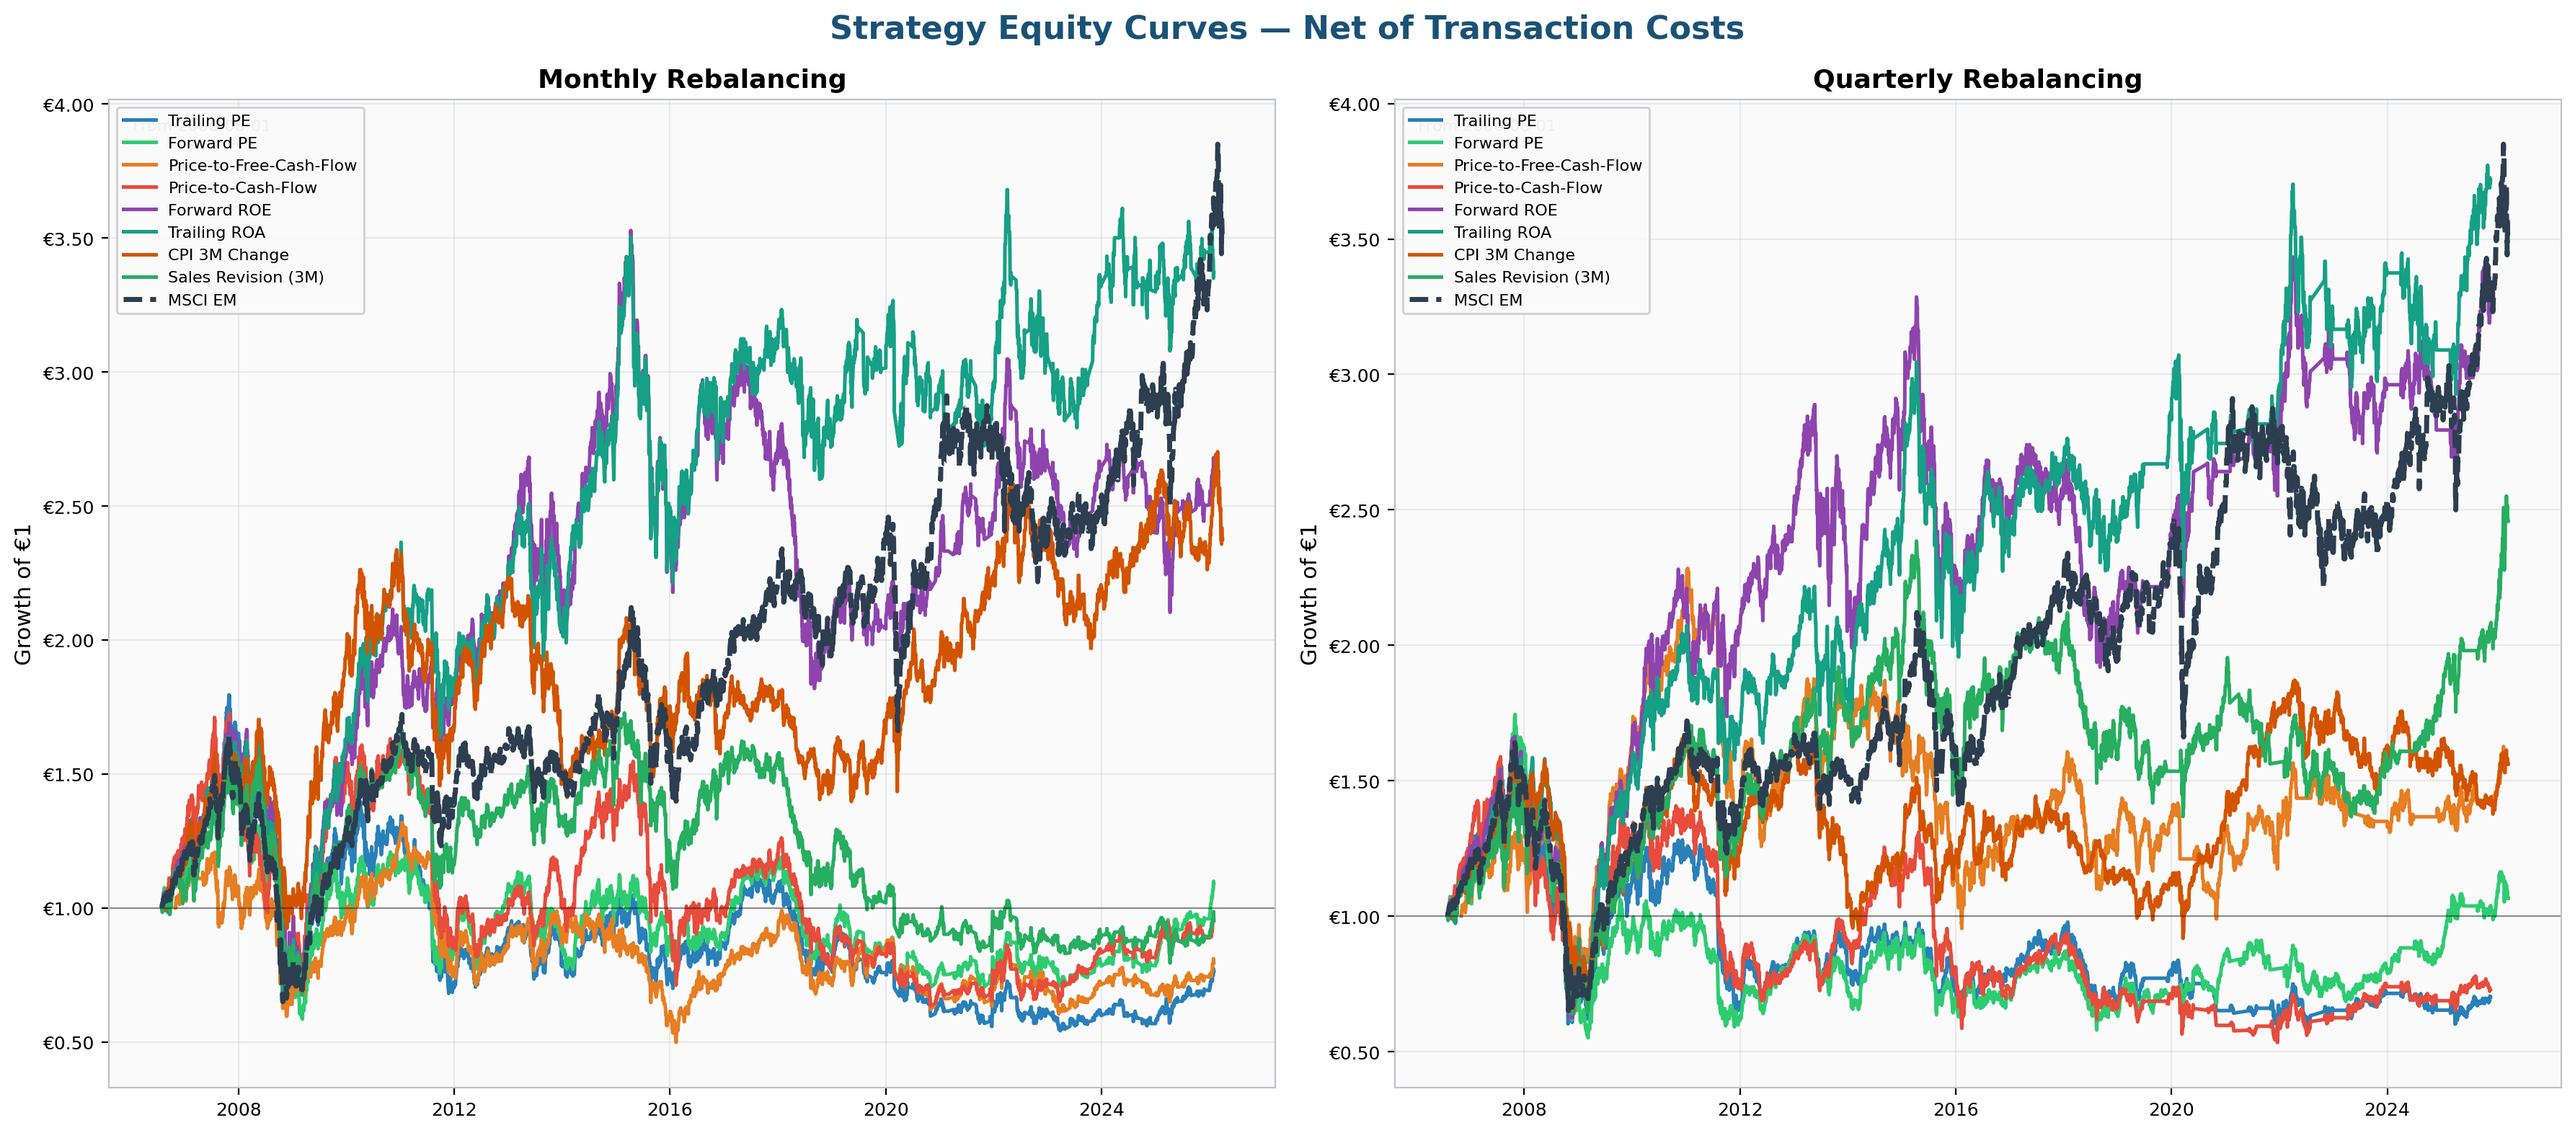
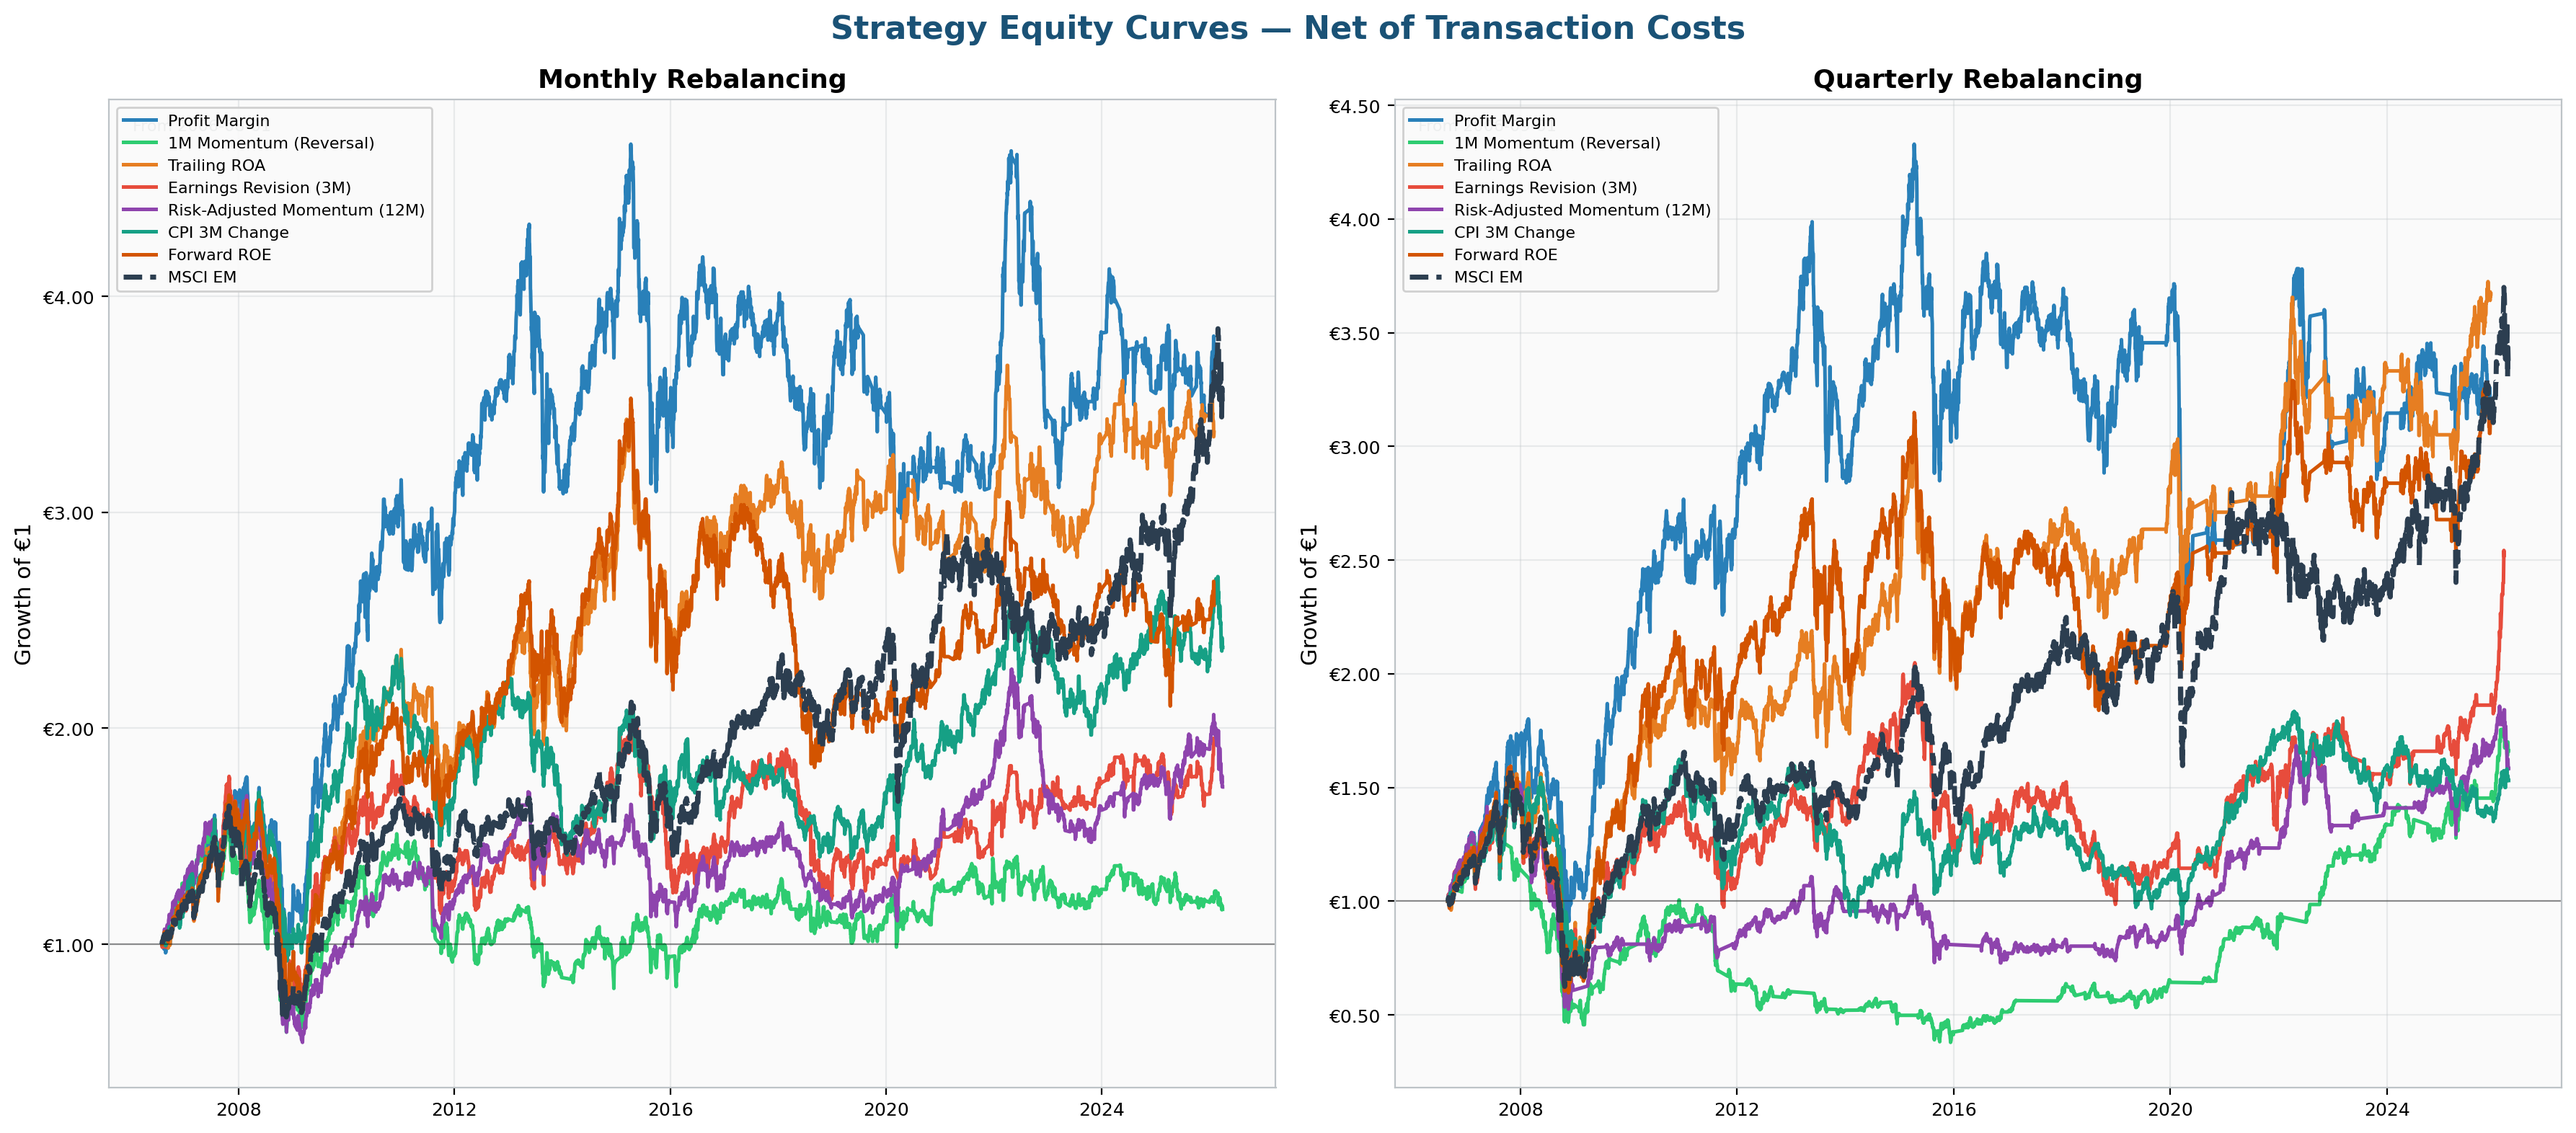
updates

diff --git a/strategy_backtest.py b/strategy_backtest.py
@@ -42,14 +42,13 @@ N_BUCKETS       = 5
 MIN_COUNTRIES   = 10
 
 STRATEGIES = [
-    ("trailing_pe",       "Trailing PE",             False),
-    ("forward_pe",        "Forward PE",              False),
-    ("price_to_fcf",      "Price-to-Free-Cash-Flow", False),
-    ("price_to_cf",       "Price-to-Cash-Flow",      False),
-    ("forward_roe",       "Forward ROE",             True),
-    ("trailing_roa",      "Trailing ROA",            True),
-    ("cpi_3m_change",     "CPI 3M Change",           False),
-    ("sales_revision_3m", "Sales Revision (3M)",     True),
+    ("profit_margin",        "Profit Margin",                True),
+    ("mom_1m",               "1M Momentum (Reversal)",       False),
+    ("trailing_roa",         "Trailing ROA",                 True),
+    ("earnings_revision_3m", "Earnings Revision (3M)",       True),
+    ("risk_adj_mom_12m",     "Risk-Adjusted Momentum (12M)", True),
+    ("cpi_3m_change",        "CPI 3M Change",                False),
+    ("forward_roe",          "Forward ROE",                  True),
 ]
 
 
